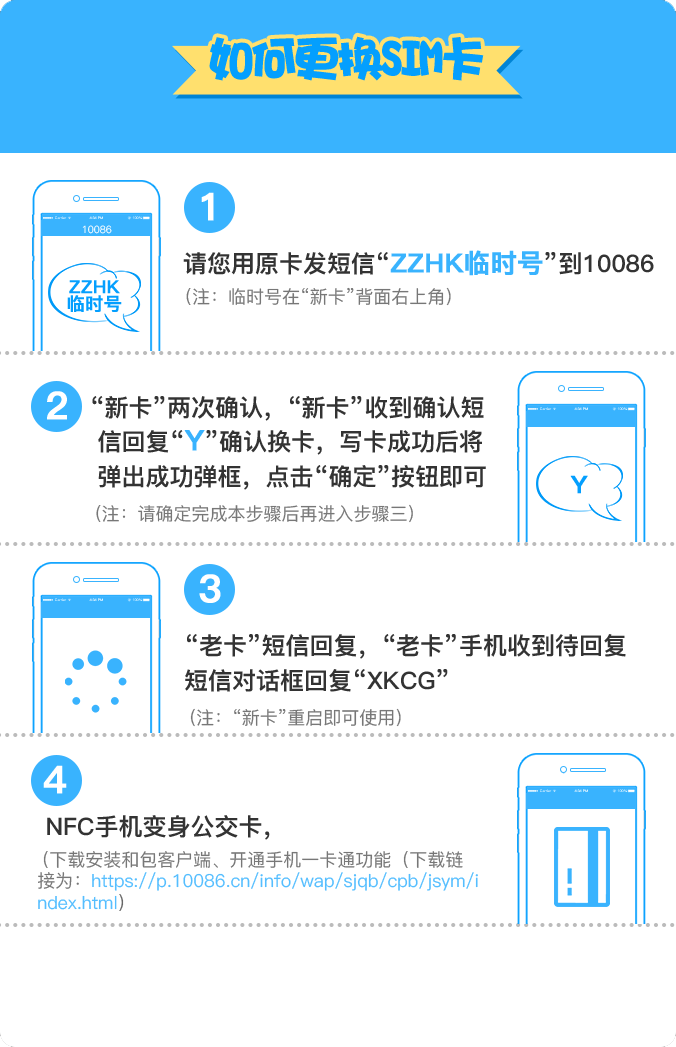
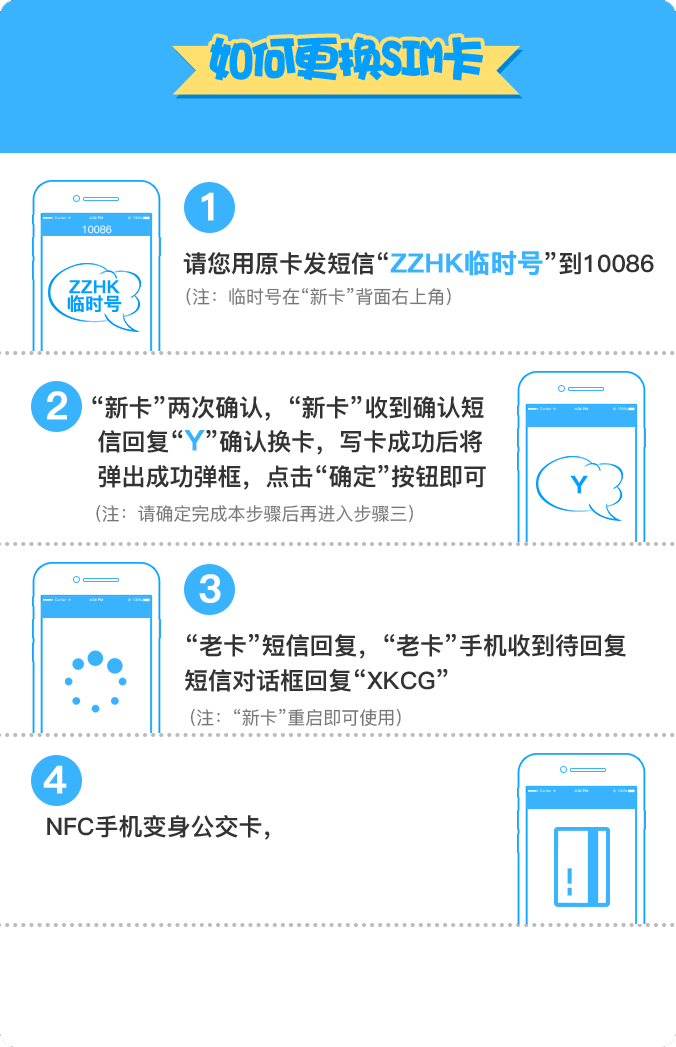
1

Changed region(s): [[0.0621, 0.7947, 0.7145, 0.8863]]

diff --git a/css/style.css b/css/style.css
@@ -180,7 +180,6 @@ footer .footerText p:last-child{
     background: url("../images/haochu.png") center no-repeat;
     background-size: cover;
 }
-
 .mask{
     position: absolute;
     top: 0px;
@@ -191,7 +190,6 @@ footer .footerText p:last-child{
     opacity: 0.6;
     -moz-opacity: 0.6;
 }
-
 /*换卡页样式*/
 .titleIcon{
     margin: 2rem auto 0;
@@ -253,3 +251,14 @@ footer .footerText p:last-child{
     background: url("../images/huanka.png") center no-repeat;
     background-size: cover;
 }
+.huanka p{
+    display: inline-block;
+    position: absolute;
+    left: 1.8rem;
+    bottom: 6.6rem;
+    width: 22rem;
+    line-height: 1.1rem;
+    font-size: 0.9rem;
+    color: #777777;
+}
+

diff --git a/index1.html b/index1.html
@@ -25,6 +25,7 @@
 </div>
 <!--如何换卡弹窗-->
 <div class="tc huanka">
+    <p>下载安装和包客户端、开通手机一卡通功能（下载链接为：<a href="https://p.10086.cn/info/wap/sjqb/cpb/jsym/index.html">https://p.10086.cn/info/wap/sjqb/cpb/jsym/index.html</a>）</p>
     <div class="tcClose"></div>
     <div class="zdBtn"></div>
 </div>
